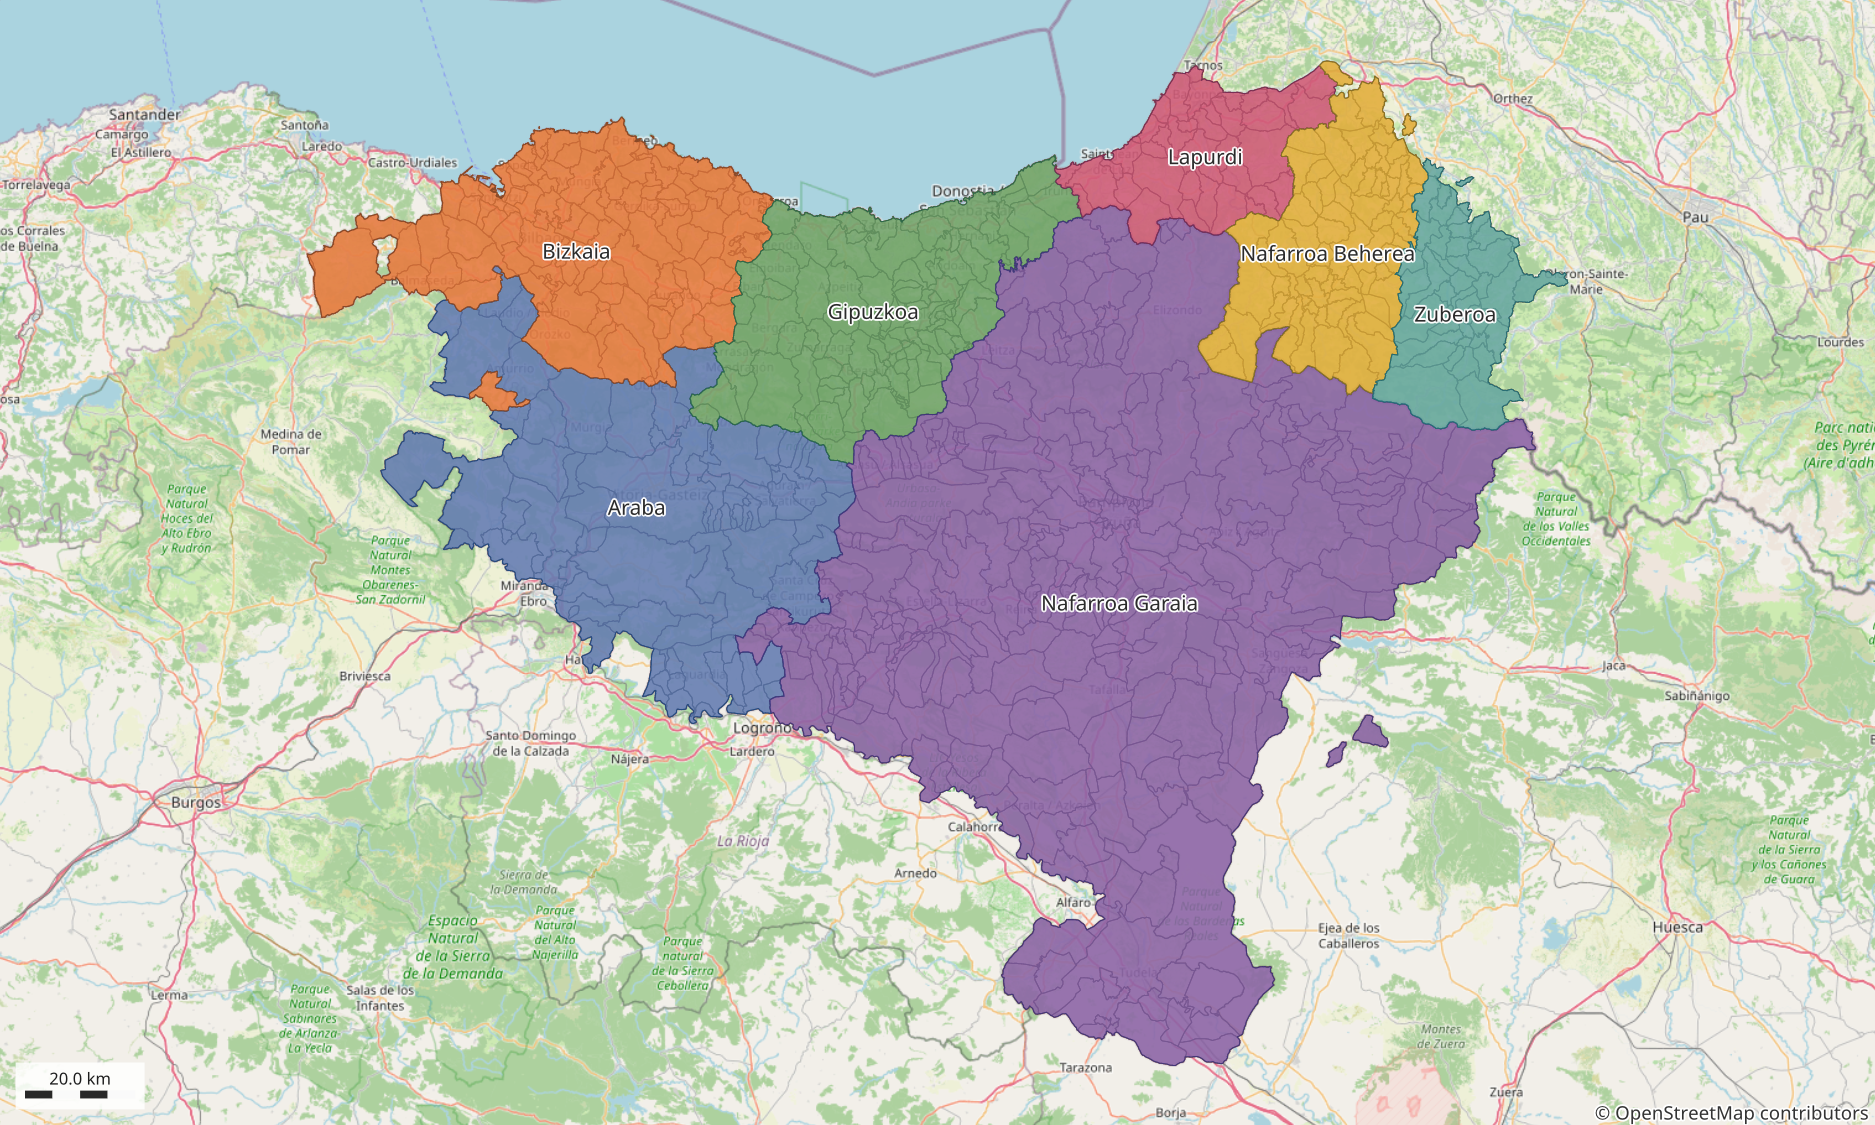
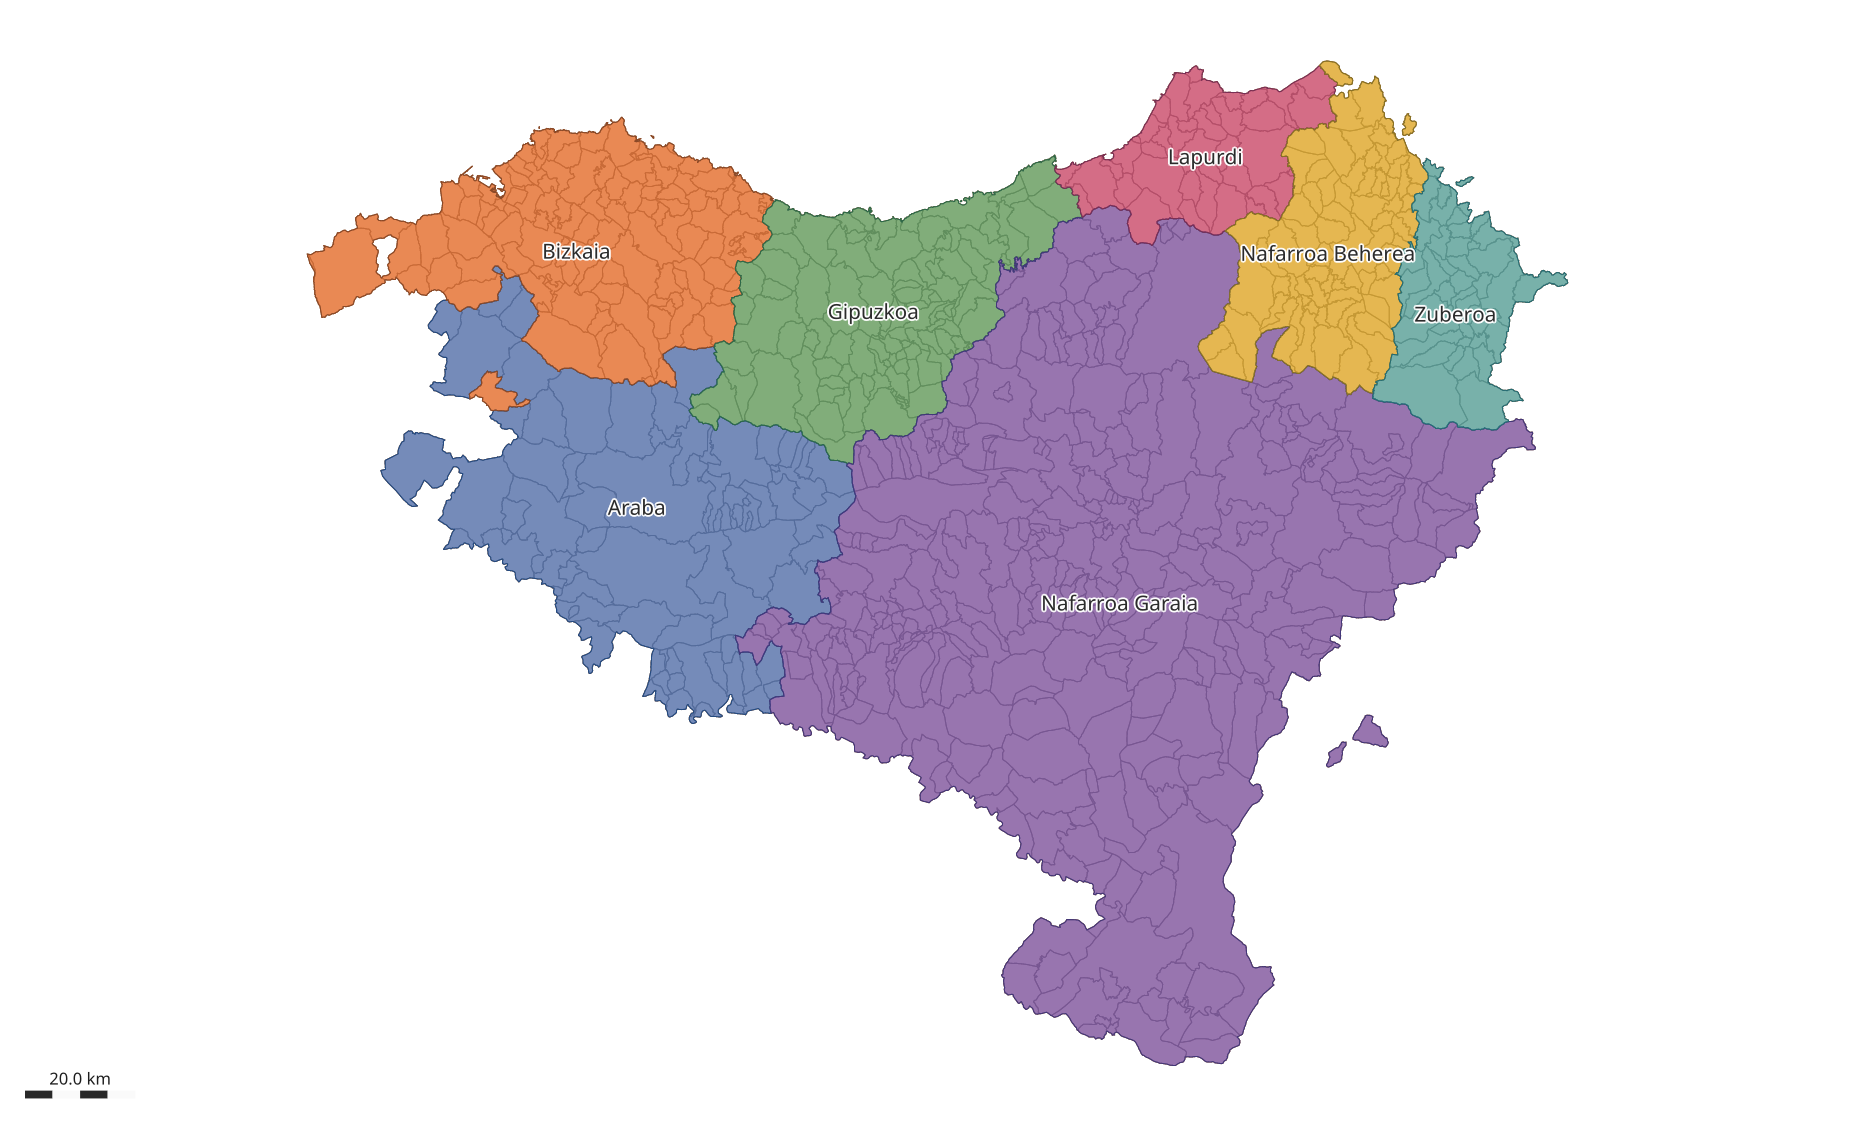
README preview: export the map without the OSM basemap
The preview now holds only the project's own data, so docs/ is CC BY 4.0 too.
The OSM basemap is still added to ehmap.rgis after the export.

diff --git a/README.md b/README.md
@@ -86,8 +86,6 @@ scripts/02_build_project.sh                      # -> ehmap.rgis, docs/ preview 
 
 ## Licences
 
-- **Data** (`dist/`, `data/reference/`, the layers in `ehmap.rgis`):
+- **Data** (`dist/`, `data/reference/`, `docs/`, the layers in `ehmap.rgis`):
   [CC BY 4.0](LICENSE-DATA). Sources and how to credit them: [ATTRIBUTION.md](ATTRIBUTION.md).
-- **Preview images** (`docs/`) include the OpenStreetMap basemap:
-  map data © OpenStreetMap contributors ([ODbL](https://opendatacommons.org/licenses/odbl/)).
 - **Code** (`scripts/`): [MIT](LICENSE).
